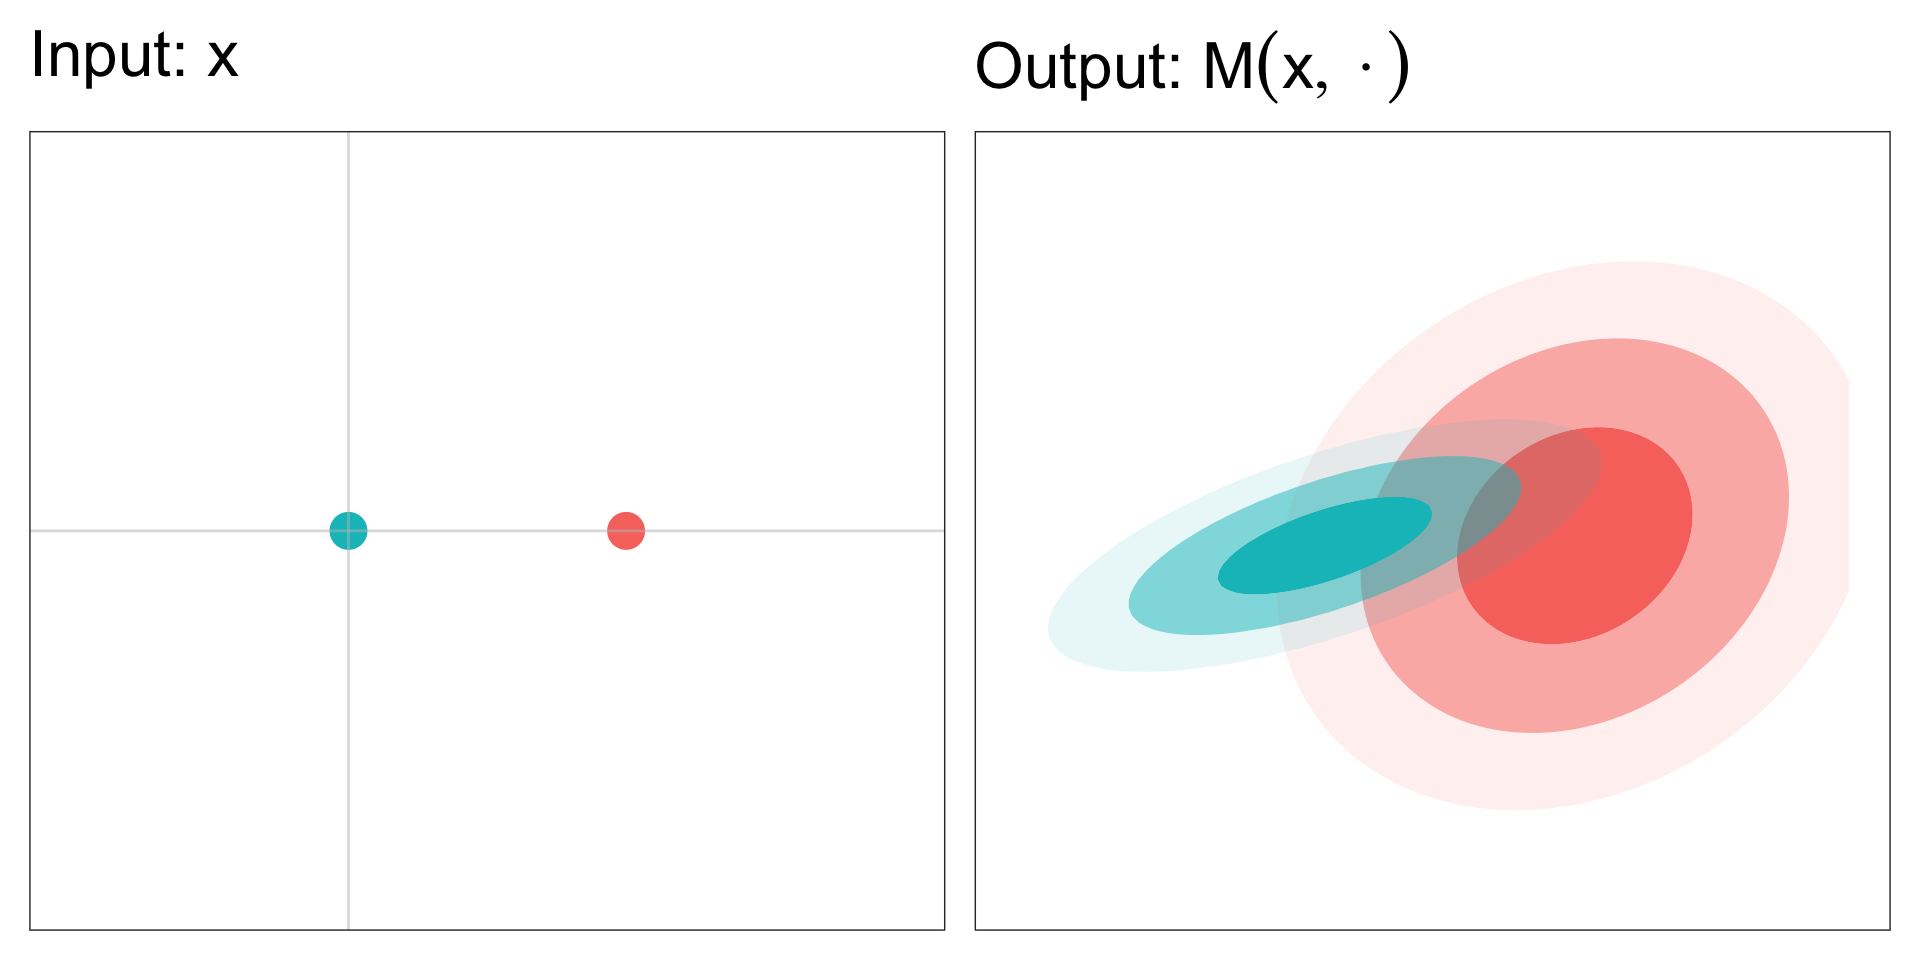
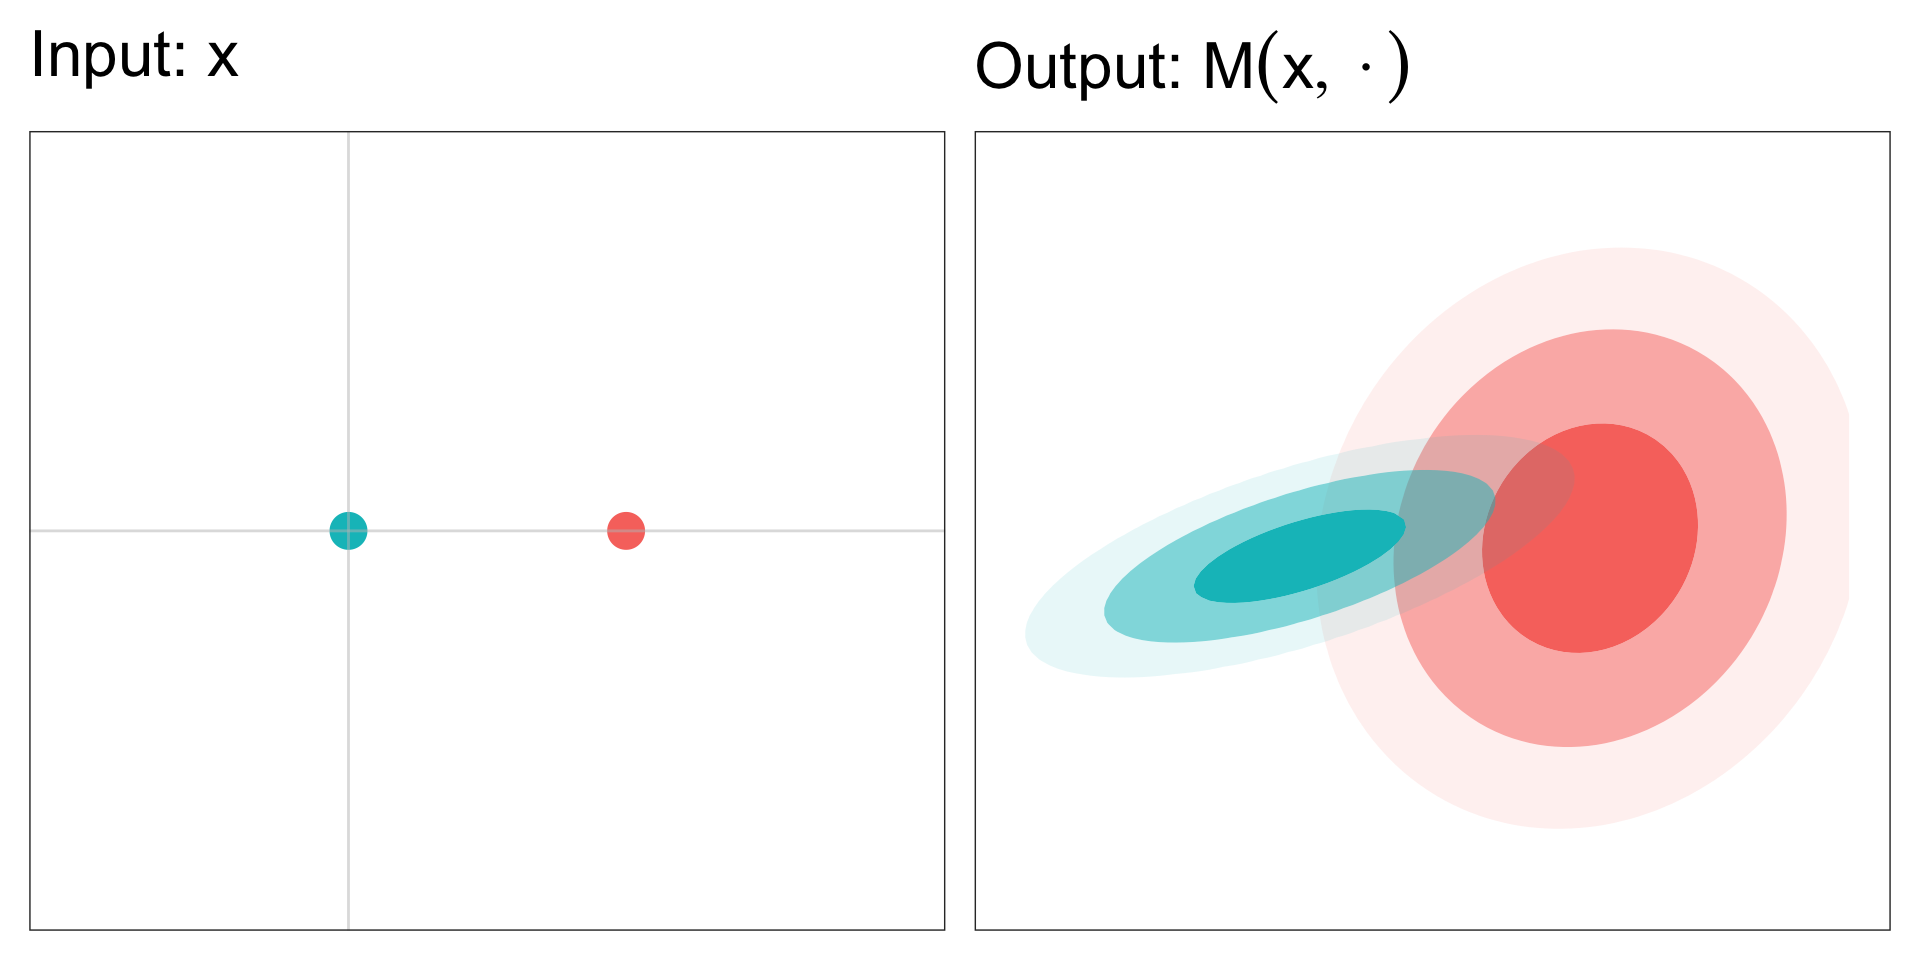
Updates for chalmers

diff --git a/index.html b/index.html
@@ -192,7 +192,7 @@ Joshua J Bon
 <li>Differential privacy redux</li>
 <li>Privacy without noise</li>
 </ol>
-<p><strong>Bon</strong>, Bailie, Rousseau &amp; Robert (2026) <em>ICML 2026</em></p>
+<p>Bon, Bailie, Rousseau &amp; Robert (2026) <em>ICML 2026</em></p>
 <p><a href="https://arxiv.org/abs/2601.22945">arXiv 2601.22945</a></p>
 <aside><ol class="aside-footnotes"><li id="fn1"><p>Slides available https://bonstats.github.io/privacy26</p></li></ol></aside></section>
 <section>
@@ -279,7 +279,7 @@ Joshua J Bon
 <ol type="1">
 <li><strong>Composition</strong>:</li>
 </ol>
-<p>If releasing the mean and variance of a dataset is <span class="math inline">\epsilon</span>-DP respectively, then the joint release is <span class="math inline">2\epsilon</span>-DP.</p>
+<p>If releasing the mean and variance of a dataset are each <span class="math inline">\epsilon</span>-DP, then the joint release is <span class="math inline">2\epsilon</span>-DP.</p>
 <ol start="2" type="1">
 <li><strong>Post-processing</strong>:</li>
 </ol>
@@ -298,7 +298,7 @@ Joshua J Bon
 <li class="fragment">Approximate DP <span class="citation" data-cites="dwork2006approxdp">(<a href="#/references" role="doc-biblioref" onclick="">Dwork, Kenthapadi, et al. 2006</a>)</span></li>
 </ul>
 <div class="fragment">
-<p><span class="math display">m(x,S) \leq \exp\{\epsilon\} m(x^\prime, S)  + \delta</span> for all <span class="math inline">S \in \mathcal{S}</span>.</p>
+<p><span class="math display">M(x,S) \leq \exp\{\epsilon\} M(x^\prime, S)  + \delta</span> for all <span class="math inline">S \in \mathcal{S}</span>.</p>
 </div>
 </section>
 <section id="variants-of-dp-1" class="slide level2">
@@ -311,7 +311,7 @@ Joshua J Bon
 <li class="fragment">Many more!</li>
 </ul>
 <div class="fragment">
-<p>All related to Lipschitz interpretation</p>
+<p>Related to Lipschitz interpretation</p>
 </div>
 </section>
 <section id="pure-dp-semantics" class="slide level2">
@@ -345,14 +345,26 @@ Joshua J Bon
 <p>Our approach is a <strong>semantics-first</strong> understanding of data privacy, where</p>
 </div>
 <ul>
-<li class="fragment">Assumptions can be tested against real-world</li>
-<li class="fragment">Privacy definitions are easy to interpret, communicate and tailor, <em>because</em></li>
-<li class="fragment">Our framework is constructed from an agent-based game</li>
+<li class="fragment">Privacy definitions are systematically constructed from an <strong>agent-based game</strong></li>
+<li class="fragment">Game assumptions have real-world interpretations</li>
+<li class="fragment">Privacy definitions are easier to interpret, communicate and tailor</li>
+</ul>
+</section>
+<section id="what-else-is-in-the-paper" class="slide level2">
+<h2>What else is in the paper?</h2>
+<ul>
+<li class="fragment">Probabilistic and pure <strong>DP special cases</strong></li>
+<li class="fragment">Rényi and <span class="math inline">f</span>-divergence DP also by changing assumptions</li>
+<li class="fragment">Privacy developed for <strong>deterministic mechanisms</strong>:
+<ul>
+<li class="fragment">empirical mean</li>
+<li class="fragment">cell suppression</li>
+</ul></li>
 </ul>
 </section></section>
 <section>
-<section id="privacy-from-the-ground-up" class="title-slide slide level1 center">
-<h1>Privacy from the ground up</h1>
+<section id="privacy-from-the-ground-up-or-semantics-first" class="title-slide slide level1 center">
+<h1>Privacy from the ground up or “semantics first”</h1>
 
 </section>
 <section id="overview-of-statistical-data-privacy" class="slide level2">